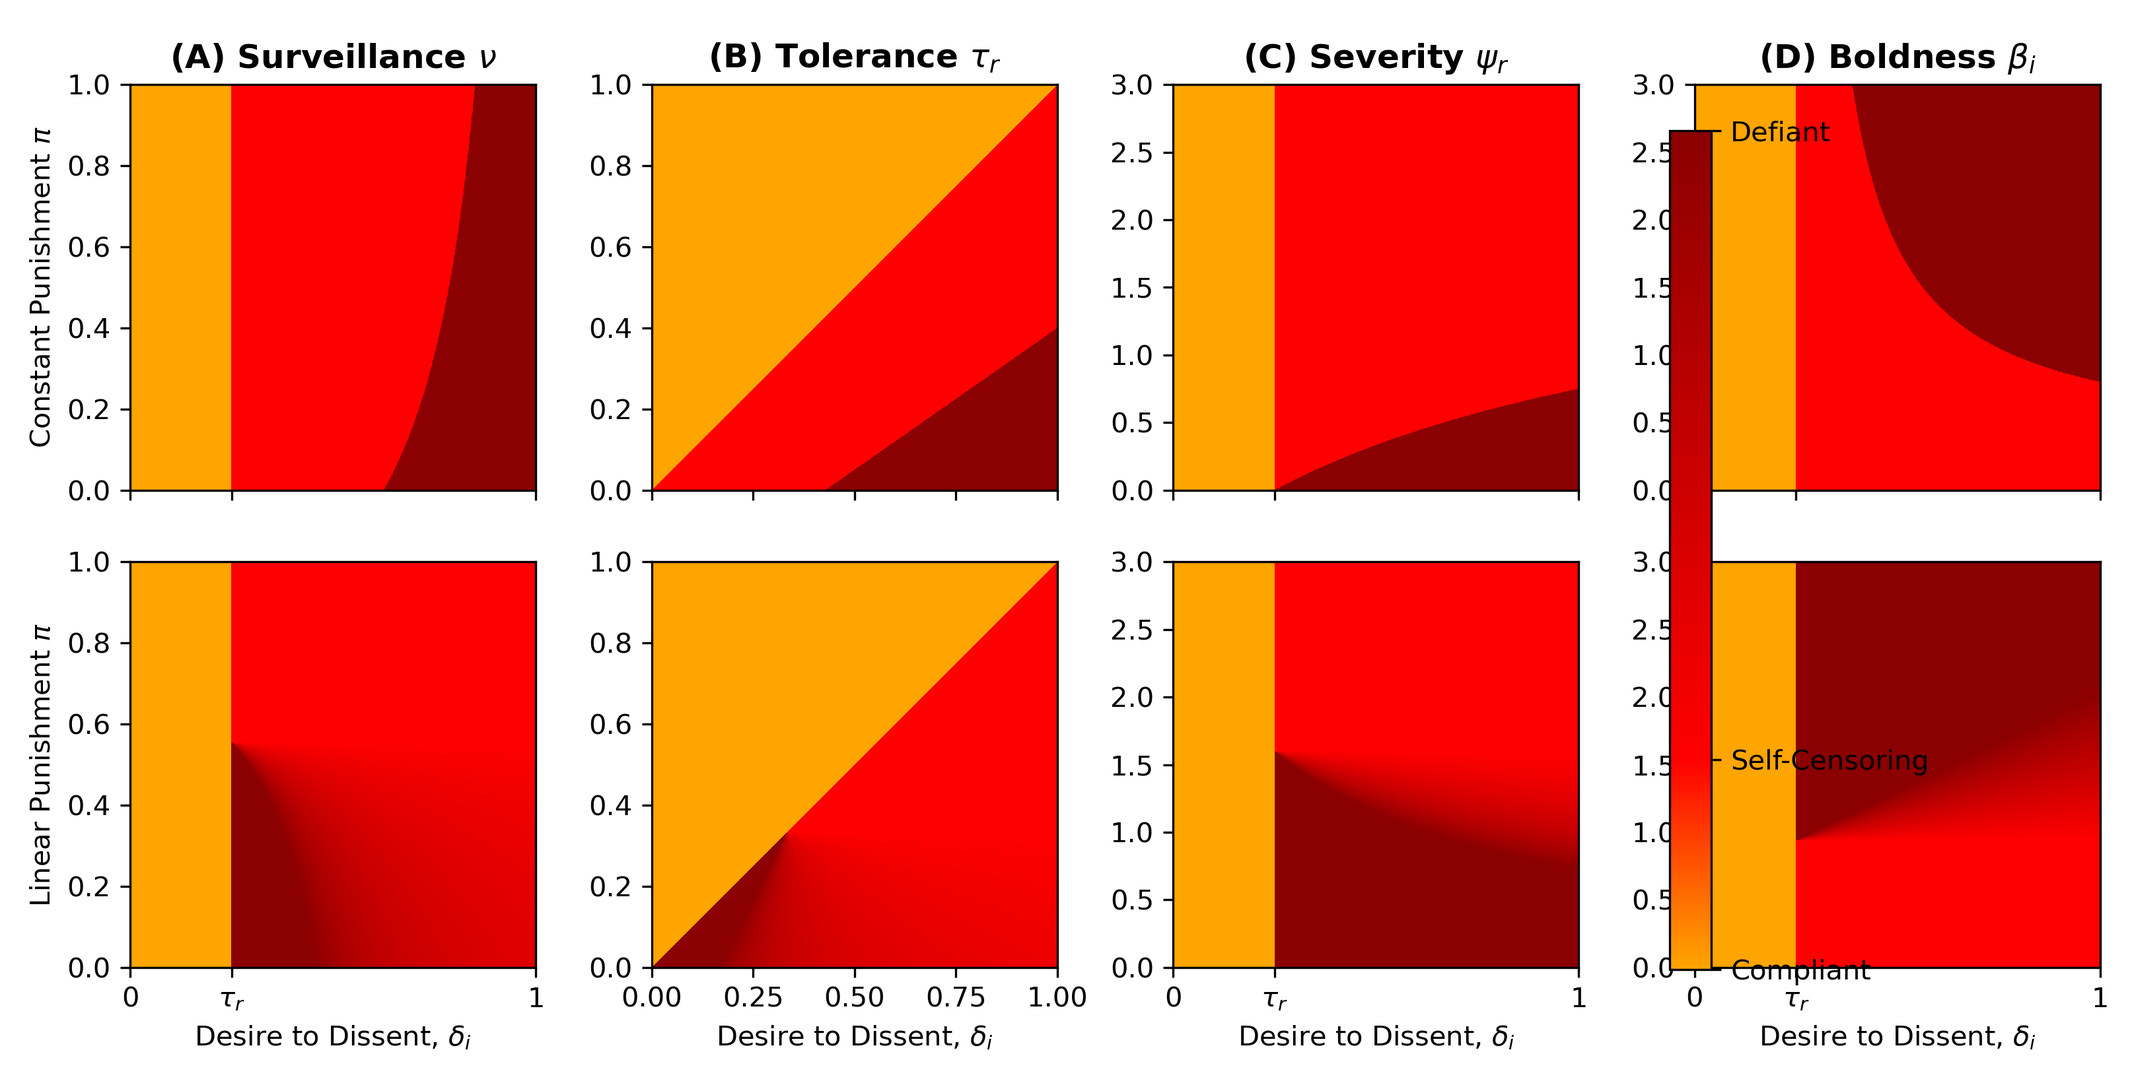
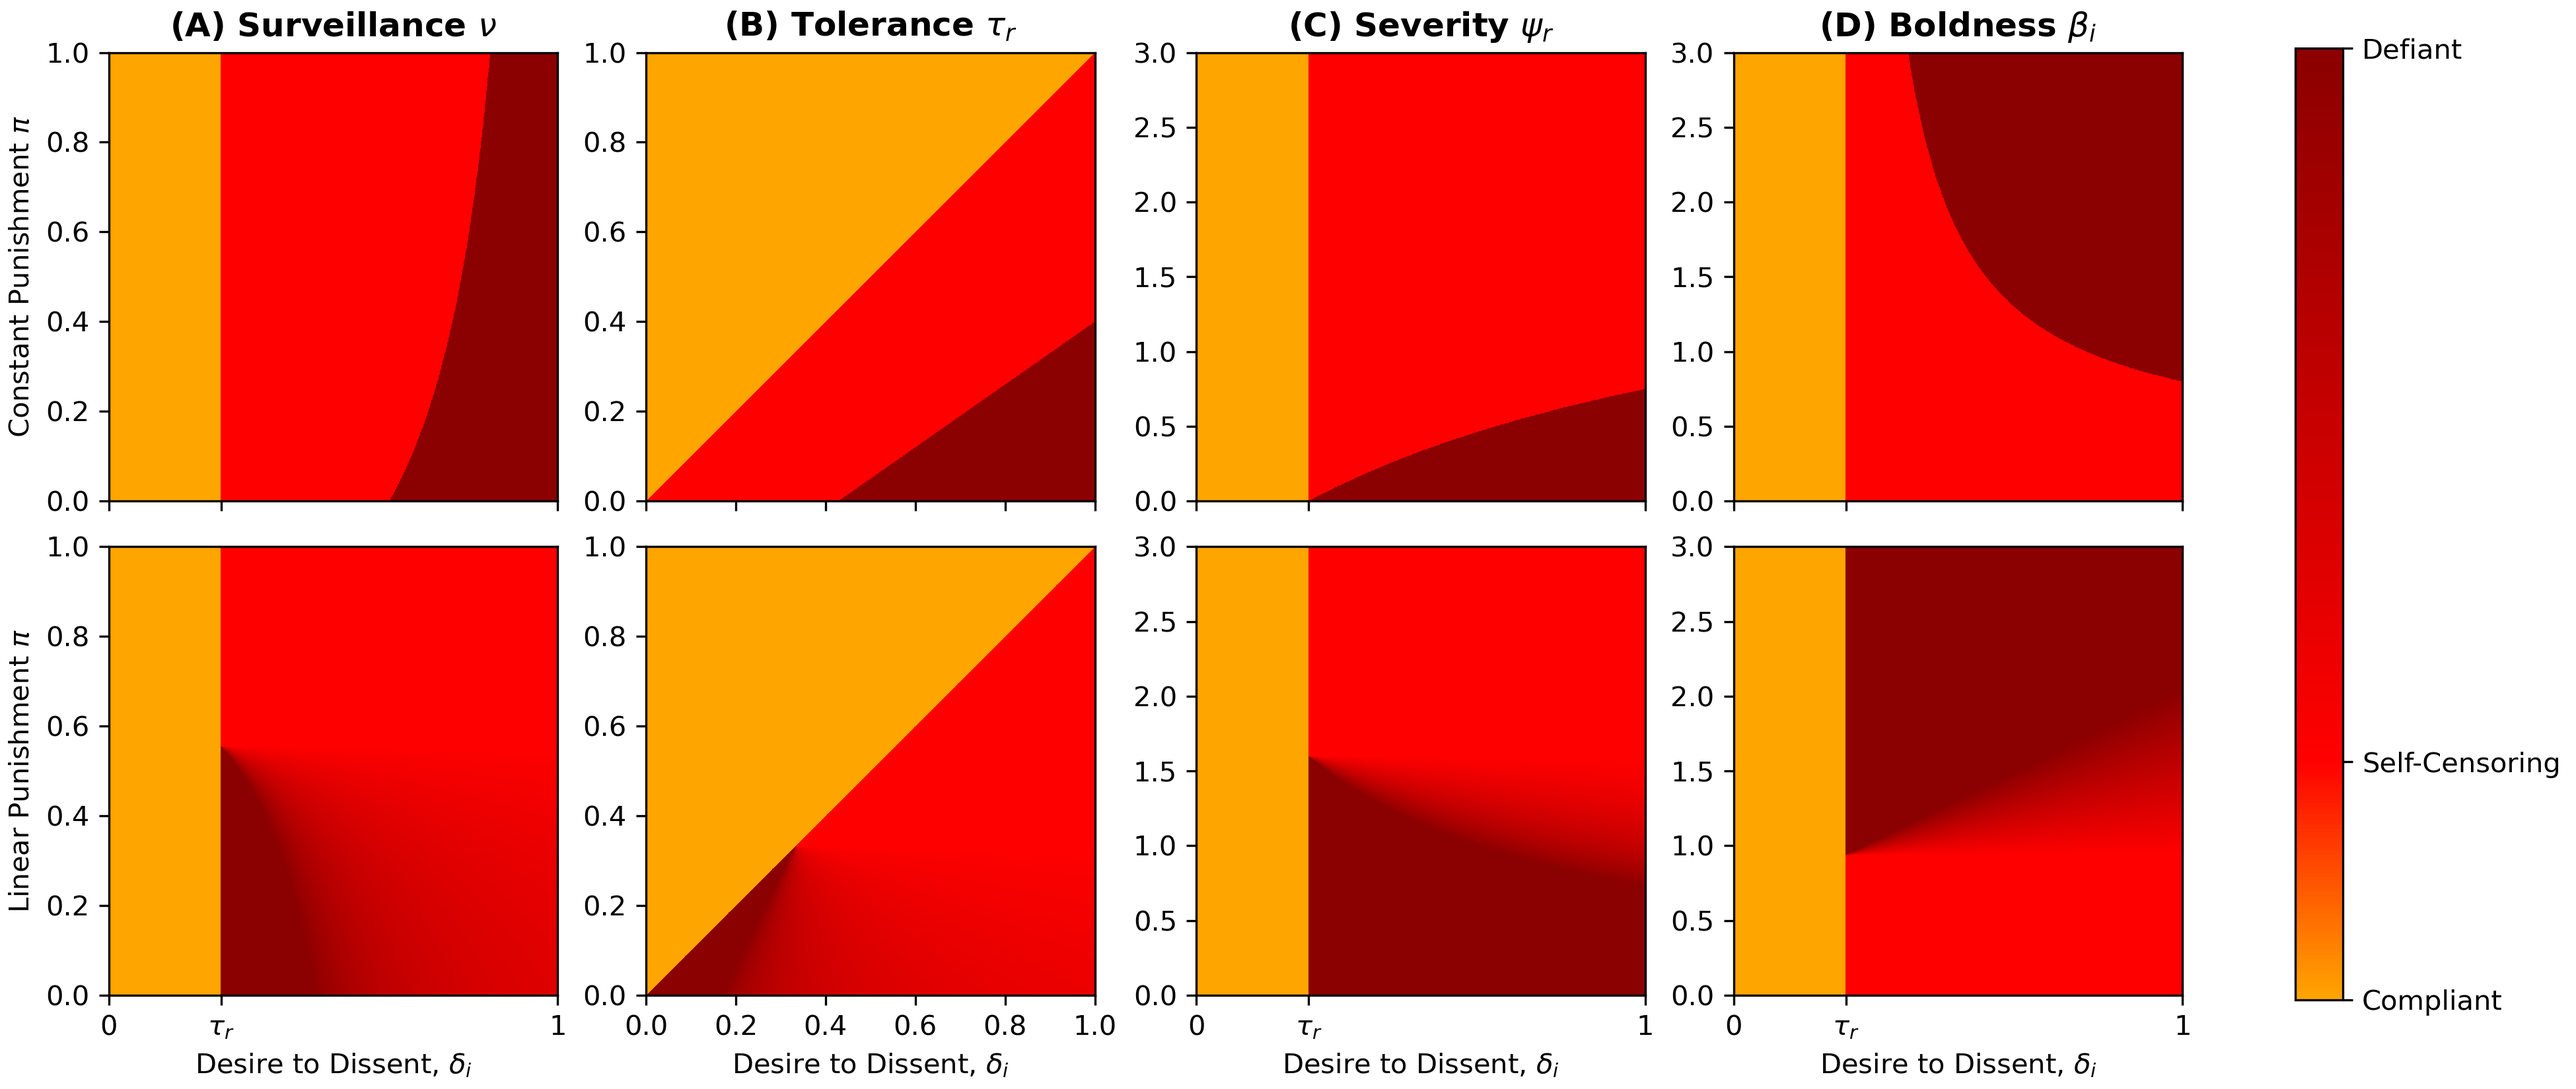
Fixed layout issues in the exogenous shifts heatmaps

diff --git a/opt_action/phase_diagram.py b/opt_action/phase_diagram.py
@@ -86,8 +86,8 @@ def plot_phase_diagram(ax, yparam, beta, nu, pi, tau, psi):
 
 if __name__ == "__main__":
     # Combine subplots for all parameters and punishment functions.
-    fig, ax = plt.subplots(2, 4, figsize=(10.75, 5.5), dpi=300, sharex='col',
-                           facecolor='white', tight_layout=True)
+    fig, ax = plt.subplots(2, 4, figsize=(13, 5.5), dpi=300, sharex='col',
+                           facecolor='white', layout='constrained')
     params = ['nu', 'tau', 'psi', 'beta']
     labels = [r'(A) Surveillance $\nu$',
               r'(B) Tolerance $\tau_r$',
